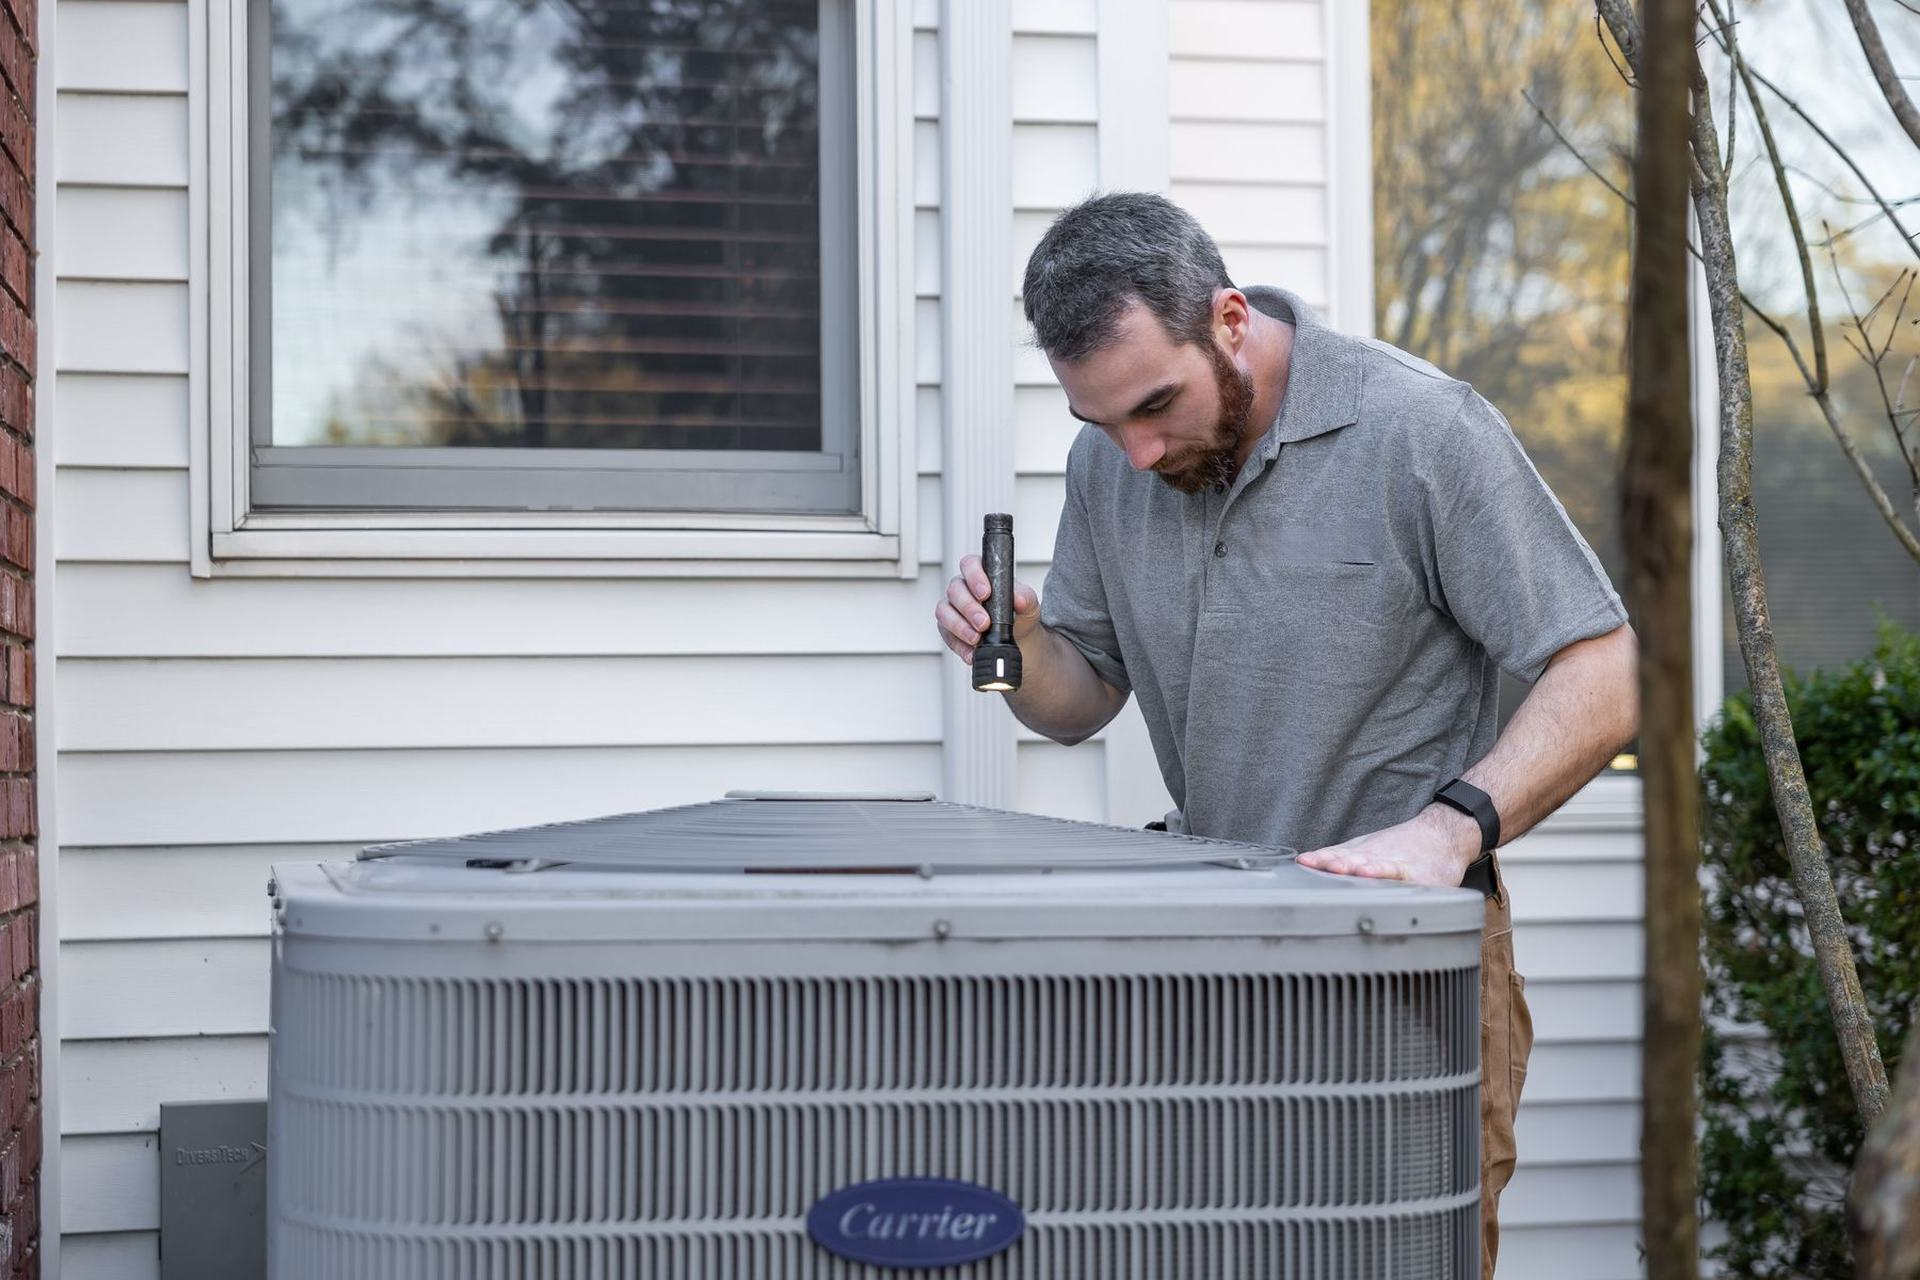
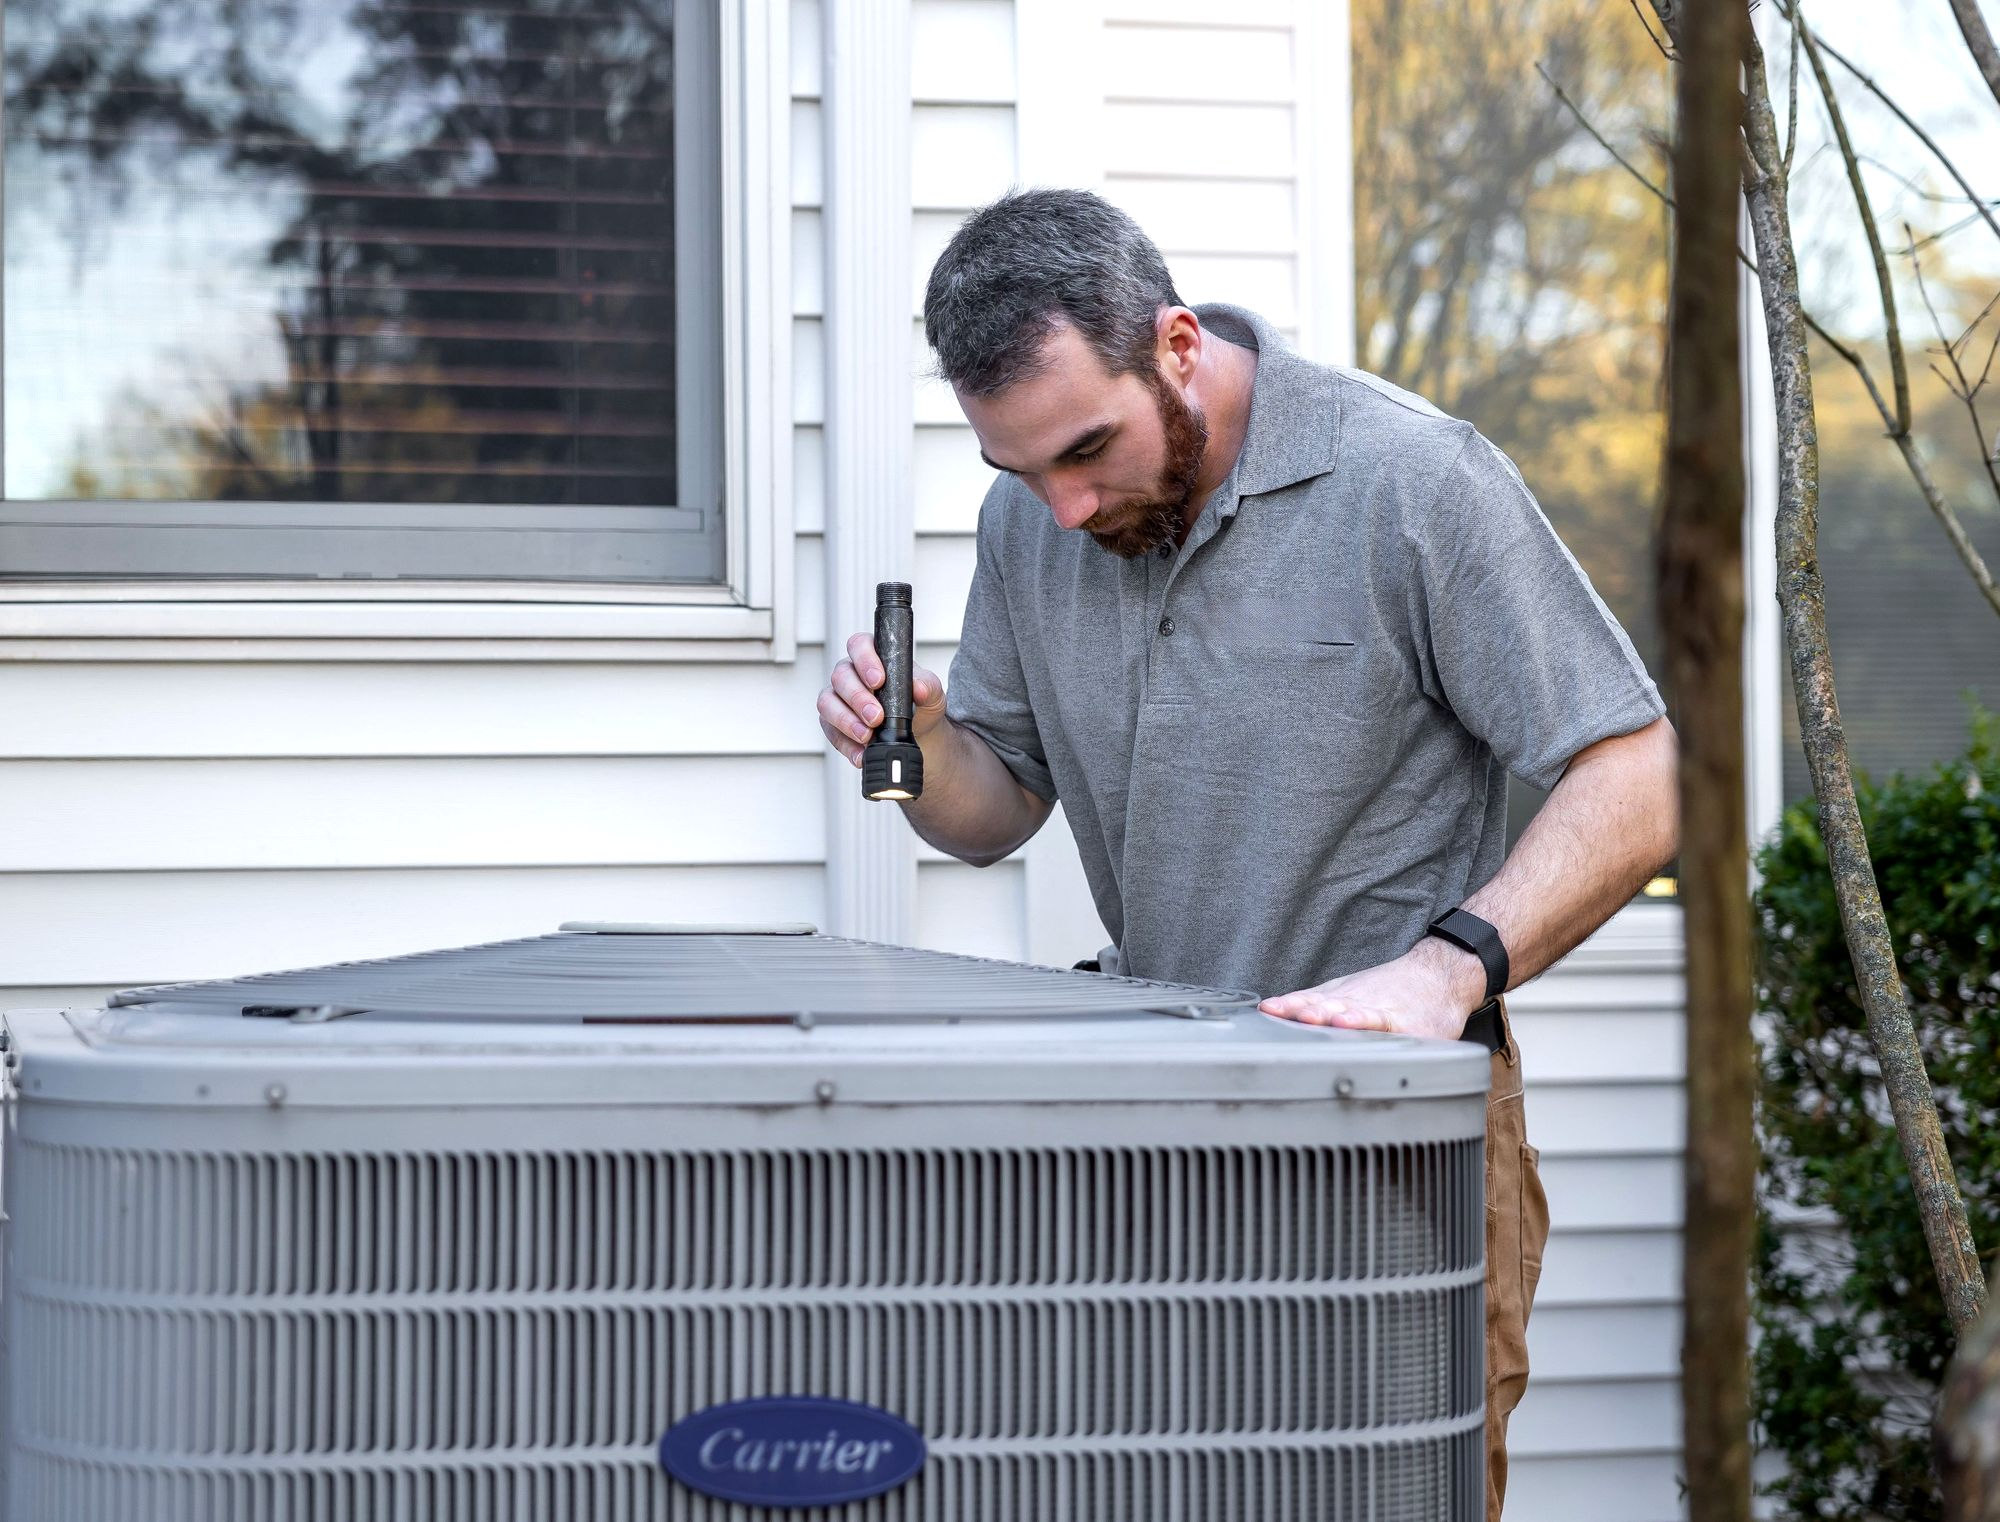
Brighten the homepage hero so the technician and outdoor unit stay visible.

diff --git a/src/components/Hero.tsx b/src/components/Hero.tsx
@@ -10,13 +10,12 @@ export function Hero() {
         fill
         priority
         sizes="100vw"
-        className="object-cover object-[center_35%]"
+        className="object-cover object-[66%_center] sm:object-[64%_48%] lg:object-[60%_58%]"
       />
-      <div className="absolute inset-0 bg-gradient-to-t from-navy via-navy/82 to-navy/55" />
-      <div className="absolute inset-0 bg-gradient-to-r from-navy via-navy/75 to-navy/25" />
+      <div className="hero-shade absolute inset-0" />
 
-      <div className="relative z-10 mx-auto w-full max-w-6xl px-4 py-16 md:px-6 md:py-24">
-        <div className="animate-rise max-w-2xl">
+      <div className="relative z-10 mx-auto w-full min-w-0 max-w-6xl px-4 py-16 md:px-6 md:py-24">
+        <div className="animate-rise w-full min-w-0 max-w-2xl">
           <p className="text-sm font-semibold uppercase tracking-[0.22em] text-copper">
             Walnutport, Pennsylvania
           </p>

diff --git a/src/app/globals.css b/src/app/globals.css
@@ -133,6 +133,31 @@ button:focus-visible {
   animation: rise 0.8s ease both;
 }
 
+/* Darker behind the left-side headline, light over the technician and condenser. */
+.hero-shade {
+  background: linear-gradient(
+    90deg,
+    rgb(30 27 61 / 0.74) 0%,
+    rgb(30 27 61 / 0.7) 28%,
+    rgb(30 27 61 / 0.34) 52%,
+    rgb(30 27 61 / 0.16) 72%,
+    rgb(30 27 61 / 0.12) 100%
+  );
+}
+
+@media (min-width: 768px) {
+  .hero-shade {
+    background: linear-gradient(
+      102deg,
+      rgb(30 27 61 / 0.72) 0%,
+      rgb(30 27 61 / 0.68) 24%,
+      rgb(30 27 61 / 0.3) 40%,
+      rgb(30 27 61 / 0.16) 56%,
+      rgb(30 27 61 / 0.11) 100%
+    );
+  }
+}
+
 @media (prefers-reduced-motion: reduce) {
   html {
     scroll-behavior: auto;

diff --git a/README.md b/README.md
@@ -13,7 +13,7 @@ The fox logo is a temporary crop from the business-card photo. A clean digital l
 
 Equipment photographs are stock images from Pexels, used for this demo:
 
-- Technician and outdoor unit: Pexels 32497161
+- Hero, technician at a residential outdoor condenser: Pexels 32497161 (Kathleen Austin Kuhn, Pexels License). Cropped and brightened for the homepage.
 - Rooftop air conditioner: Pexels 5463587
 - Heating equipment: Pexels 34938439
 - Indoor unit service: Pexels 32588555
